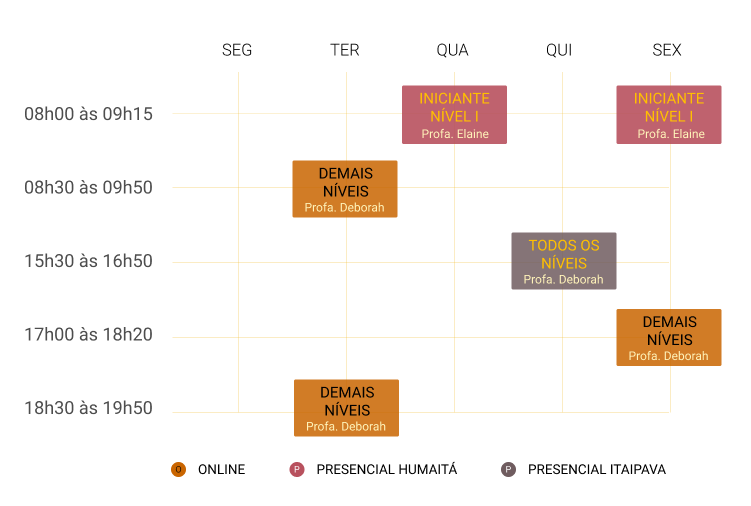
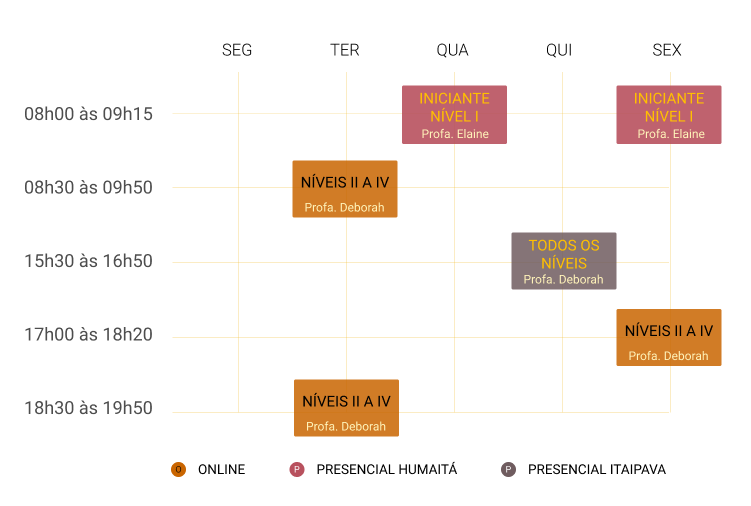
atualizacoes

Changed region(s): [[0.8269, 0.6225, 0.9494, 0.6818], [0.3981, 0.7411, 0.5206, 0.83], [0.3981, 0.3261, 0.5206, 0.3854]]

diff --git a/index2.html b/index2.html
@@ -12,7 +12,86 @@
         #homelogo {
             float: left;
             padding: 50px 0px 0px 30px;
-            max-width: 50px;
+            max-width: 200px;
+        }
+
+        h1 {
+            font-family: 'Times New Roman', Times, serif;
+            font-size: 2.3em;
+            color: #CB5561;
+            padding: 40px 0px 20px 0px;
+        }
+
+        h2 {
+            font-family: Arial, Helvetica, sans-serif;
+            font-size: 1.6em;
+            text-decoration: underline #FFC000;
+            color: #6F5C5F;
+            padding: 30px 0px 20px 0px;
+        }
+
+        h2 > a {
+            text-decoration: underline #FFC000;
+            color: #6F5C5F;
+        }
+
+        h3 {
+            font-family: 'Times New Roman', Times, serif;
+            font-size: 1.2em;
+            text-transform: uppercase;
+            color: #FFC000;
+            text-shadow: rgba(111, 92, 95, 0.5) 0.4px 0.2px 0.5px;
+            padding: 7px 0px 13px 0px;
+        }
+
+        p {
+            padding: 0px 0px 13px 0px;
+            line-height: 2 em;
+        }
+
+        a {
+            text-decoration: none;
+            color: #CB5561;
+            font-weight: bold;
+        }
+
+        section.normal {
+            max-width: 100%;
+            background-color: #FFFFFF;
+            padding: 20px 50px;
+        }
+
+        section.normal > h1 > a {
+            color: #CB5561;
+        }
+
+        section.estampa {
+            background-color: #CB5561;
+            color: white;
+            max-width: 100%;
+            background-size: cover;
+            background-attachment: fixed;
+        }
+
+        section.estampa > h1 {
+            padding: 50px 50px 20px 50px;
+        }
+
+        img {
+            width: 100%;
+        }
+
+        img.grande {
+            max-width: 85%;
+            display: block;
+            margin: auto;
+        }
+
+        img.icone {
+            max-width: 24px;
+            display: inline-block;
+            align-content: left;
+            padding: 10px 10px 0px 0px;
         }
 
         #contato > p > a {
@@ -28,12 +107,13 @@
         <a href="contato.html">Contato</a>
         <a href="aulas.html">Aulas</a>
         <a href="sobre.html">Sobre</a>
-        <a href="index.html">Home</a>
+        <a href="index2.html">Home</a>
     </nav>
     <header>
         <section class="estampa" id="citacao_home">
             <picture id="homelogo">
-                <img src="imagens/logo_ciyrio-grande.png" class="pequena" alt="Logo Centro de Iyengar Yoga Rio - por Deborah Weinberg">
+                <source media="(max-width: 500px)" srcset="imagens/logo_ciyrio" type="image/png">
+                <img src="imagens/logo_ciyrio-grande.png" alt="Logo Centro de Iyengar Yoga Rio - por Deborah Weinberg">
             </picture>
             <p>
                 "Yoga não apenas transforma como uma pessoa vê as coisas,<br>
@@ -44,14 +124,16 @@
         </section>
     </header>
 
-    <main>       
-        <section class="normal">
+    <div>       
+        <section class="estampa">
             <picture id="fotohome">
                 <!--<img src="imagens/fotomontagem_deborah_home.png" class="media" alt="Fotomontagem Deborah Weinberg em três diferentes asanas">-->
-                <img src="imagens/experimentacao.jpeg" class="grande" alt="experimentacao">
+                <img src="imagens/experimentacao.png" alt="experimentacao">
             </picture>
         </section>
+    </div>
 
+    <div>
         <section class="normal">
             <h1><a href="sobre.html">Sobre</a></h1>
                 <h2><a href="sobre.html">O Centro de Iyengar Yoga Rio</a></h2>
@@ -68,29 +150,35 @@
                     <a href="sobre.html">Saiba mais</a>
                 </p>
         </section>
+    </div>
 
+    <div>
         <section class="normal">
             <picture>
-                <img src="imagens/ilustracao_daniel_studio_deborah.png" alt="Arte do querido aluno Daniel Gnattali. A ilustração mostra uma série de possibilidades lúdicas, utilizando os acessórios de yoga, para a execução dos asanas.">
+                <img src="imagens/ilustracao_daniel_studio_deborah.png" class="grande" alt="Arte do querido aluno Daniel Gnattali. A ilustração mostra uma série de possibilidades lúdicas, utilizando os acessórios de yoga, para a execução dos asanas.">
                 <figcaption>Arte de <a href="https://www.instagram.com/danielgnattali" target="_blank">Daniel Gnattali</a></figcaption>
             </picture>
         </section>
+    </div>
 
+    <div>
         <section class="estampa" id="fundoaulas">
             <h1><a href="aulas.html">Aulas</a></h1>
                 <picture><a href="aulas.html"></a>
                     <source media="(max-widht: 300px" src="imagens/Infoaulashome-vertical.png" type="image/png">
-                    <img src="imagens/infoaulashome.png" alt="Info Aulas: Online e Particulares; Turmas e Particulares">
+                    <img src="imagens/infoaulashome.png" class="grande" alt="Info Aulas: Online e Particulares; Turmas e Particulares">
                 </picture></a>
         </section>
-
+    </div>
+    <div>
         <section class="normal">
             <h2>Quadro de Horários</h2>
             <picture id="fotoQH">
                 <img src="imagens/quadrohorarios.png" alt="Quadro de Horários">
             </picture>
         </section>
-
+    </div>
+    <div>
         <section class="normal">
             <h1 id="contato">Contato</h1>
                 <p>
@@ -107,8 +195,7 @@
                     <img src="imagens/icone-pin-localizacao.png" class="icone" alt="Ícone Pin Localização">Itaipava, Petrópolis - RJ
                 </p>
         </section>
-
-    </main>
+    </div>
 
     <footer>
         <p>© 2022 Centro de Iyengar Yoga Rio</p>

diff --git a/aulas.html b/aulas.html
@@ -13,7 +13,7 @@
         <a href="contato.html">Contato</a>
         <a href="aulas.html">Aulas</a>
         <a href="sobre.html">Sobre</a>
-        <a href="index.html">Home</a>
+        <a href="index2.html">Home</a>
     </nav>
     <header>
     </header>
@@ -22,31 +22,44 @@
         <section>
             <h1>Aulas</h1>
                 <p>
-                    Aulas online, via Zoom, ou presenciais.
-                    As aulas online são feitas na platafoma Zoom e as gravações ficam disponíveis aos alunos por uma semana.
+                    Aulas online e presenciais.<br>
+                    As aulas online são feitas ao vivo na platafoma Zoom e as gravações ficam disponíveis aos alunos por uma semana.<br>
+                
                 </p>
                     <h2>Turmas</h2>
-                        <h3 id="detalhe">Iniciantes Nível I</h3>
+                        <h3 id="detalhe">Nível I (Iniciantes)</h3>
                             <p id="detalhe">
                                 Alunos iniciantes nível I são aqueles que estão começando a trilhar o caminho da Yoga, sem contato anterior com a prática.
                             </p>
                             <aside>
                                 <p>
                                     - Aulas presenciais (Humaitá, Rio de Janeiro - RJ)<br>
+                                    <a href="#QH">Confira o nosso quadro de horários</a>
+                                </p>
+                            </aside>
+                        <h3 id="detalhe">Níveis II a IV (Turmas Multiníveis)</h3>
+                            <p id="detalhe">
+                                Alunos de nível II são os já iniciados na yoga, mas ainda sem muita experiência. Os de nível III são intermediários, já os de nível IV são considerados alunos avançados.
+                            </p>
+                            <aside>
+                                <p>
                                     - Aulas online<br>
                                     <a href="#QH">Confira o nosso quadro de horários</a>
                                 </p>
                             </aside>
-                        <h3 id="detalhe">Iniciantes Nível II aos Avançados (Turmas Multiníveis)</h3>
+                        <h3 id="detalhe">Níveis I a IV (Turmas Multiníveis)</h3>
+                            <p id="detalhe">
+                                Todos os níveis, de I a IV, podem participar.
+                            </p>
                             <aside>
                                 <p>
-                                    - Aulas presenciais (Humaitá, Rio de Janeiro - RJ e Itaipava, Petrópolis - RJ)<br>
-                                    - Aulas online<br>
+                                    - Aulas presenciais (Itaipava, Petrópolis - RJ)<br>
                                     <a href="#QH">Confira o nosso quadro de horários</a>
                                 </p>
                             </aside>
                     <h2>Particulares</h2>
                         <p id="detalhe">
+                            De iniciante nível I ao nível IV avançado.<br>
                             Consulte condições e horários disponíveis.
                         </p>
                         <aside>

diff --git a/contato.html b/contato.html
@@ -7,13 +7,19 @@
     <title>Iyengar Yoga Rio - por Deborah Weinberg</title>
     <link rel="shortcut icon" href="imagens/logo_ciyrio_favicon.ico" type="image/x-icon">
     <link rel="stylesheet" href="estilo/style.css">
+    <style>
+          p > a {
+            color: black;
+            font-weight: normal;
+        }
+    </style>
 </head>
 <body>
     <nav>
         <a href="contato.html">Contato</a>
         <a href="aulas.html">Aulas</a>
         <a href="sobre.html">Sobre</a>
-        <a href="index.html">Home</a>
+        <a href="index2.html">Home</a>
     </nav>
     <header>
     </header>
@@ -25,7 +31,7 @@
             </p>
             <p>
                 <img src="imagens/icone-email.png" class="icone" alt="Ícone E-mail"> iyengaryogarj@gmail.com<br>
-                <img src="imagens/icone-whatsapp.png" class="icone" alt="Ícone WhatsApp"> + 55 21 98636-8999<br>
+                <a href="https://wa.me/5521986368999" target="_blank"><img src="imagens/icone-whatsapp.png" class="icone" alt="Ícone WhatsApp"> + 55 21 98636-8999<br></a>
                 <a href="https://www.fb.com/iyengaryogario" target="_blank"><img src="imagens/icone-facebook.png" class="icone" alt="Ícone Facebook"></a>
                 <a href="https://www.instagram.com/deborah.weinberg" target="_blank"><img src="imagens/icone-instagram.png" class="icone" alt="Ícone Instagram"></a>
             </p>

diff --git a/sobre.html b/sobre.html
@@ -13,7 +13,7 @@
         <a href="contato.html">Contato</a>
         <a href="aulas.html">Aulas</a>
         <a href="sobre.html">Sobre</a>
-        <a href="index.html">Home</a>
+        <a href="index2.html">Home</a>
     </nav>
     <header>
     </header>
@@ -58,7 +58,7 @@
                 <h2>Nossas Professoras</h2>
                     <h3 id="sobreDW">Deborah Weinberg</h3>
                     <p>
-                        Formada bióloga molecular, Deborah apaixonou-se por Iyengar Yoga no início dos anos 90, quando ainda não havia professores no Brasil. Decidiu mudar-se então para os Estados Unidos, onde foi assistente de Manouso Manos e formou-se pelo Iyengar Yoga Institute of San Francisco, em 1995.
+                        Formada bióloga molecular, Deborah apaixonou-se por Iyengar Yoga no início dos anos 90, quando ainda não havia professores no Brasil. Decidiu mudar-se então para os Estados Unidos, onde foi assistente de Manouso Manos e formou-se pelo <a href="https://iyisf.org/" target="_blank">Iyengar Yoga Institute of San Francisco</a>, em 1995.
                     </p>
                     <p>
                         Começou a lecionar ainda em San Francisco e foi a primeira brasileira certificada a dar aulas de Iyengar Yoga no Brasil.

diff --git a/estilo/style.css b/estilo/style.css
@@ -153,6 +153,7 @@ main h3 {
 
 aside {
     padding: 0px 40px;
+    font-size: 0.85em;
 }
 
 main p {
